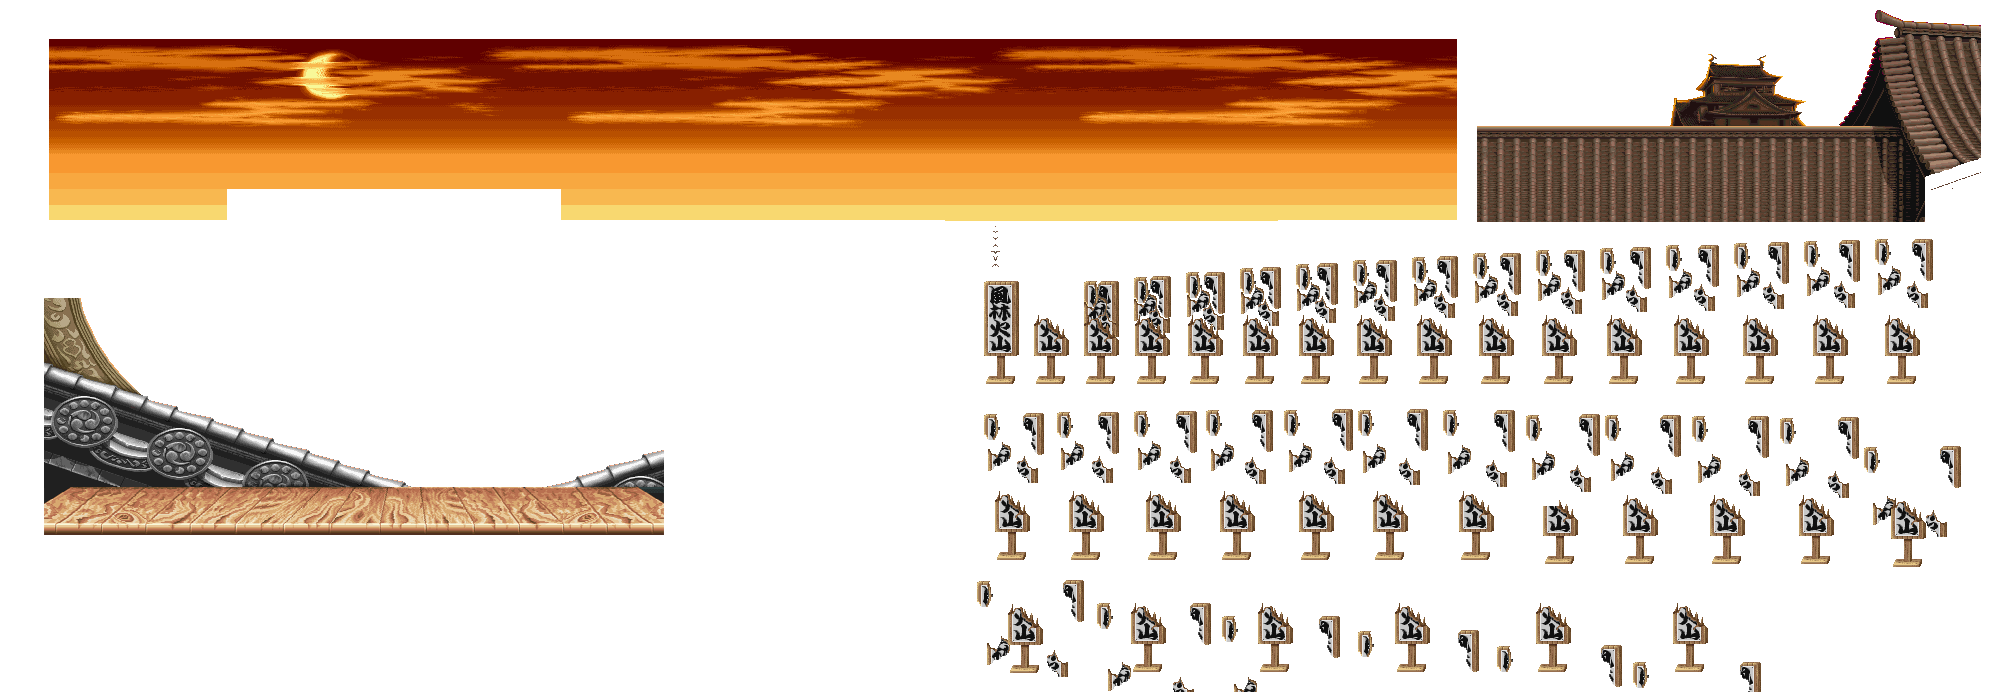
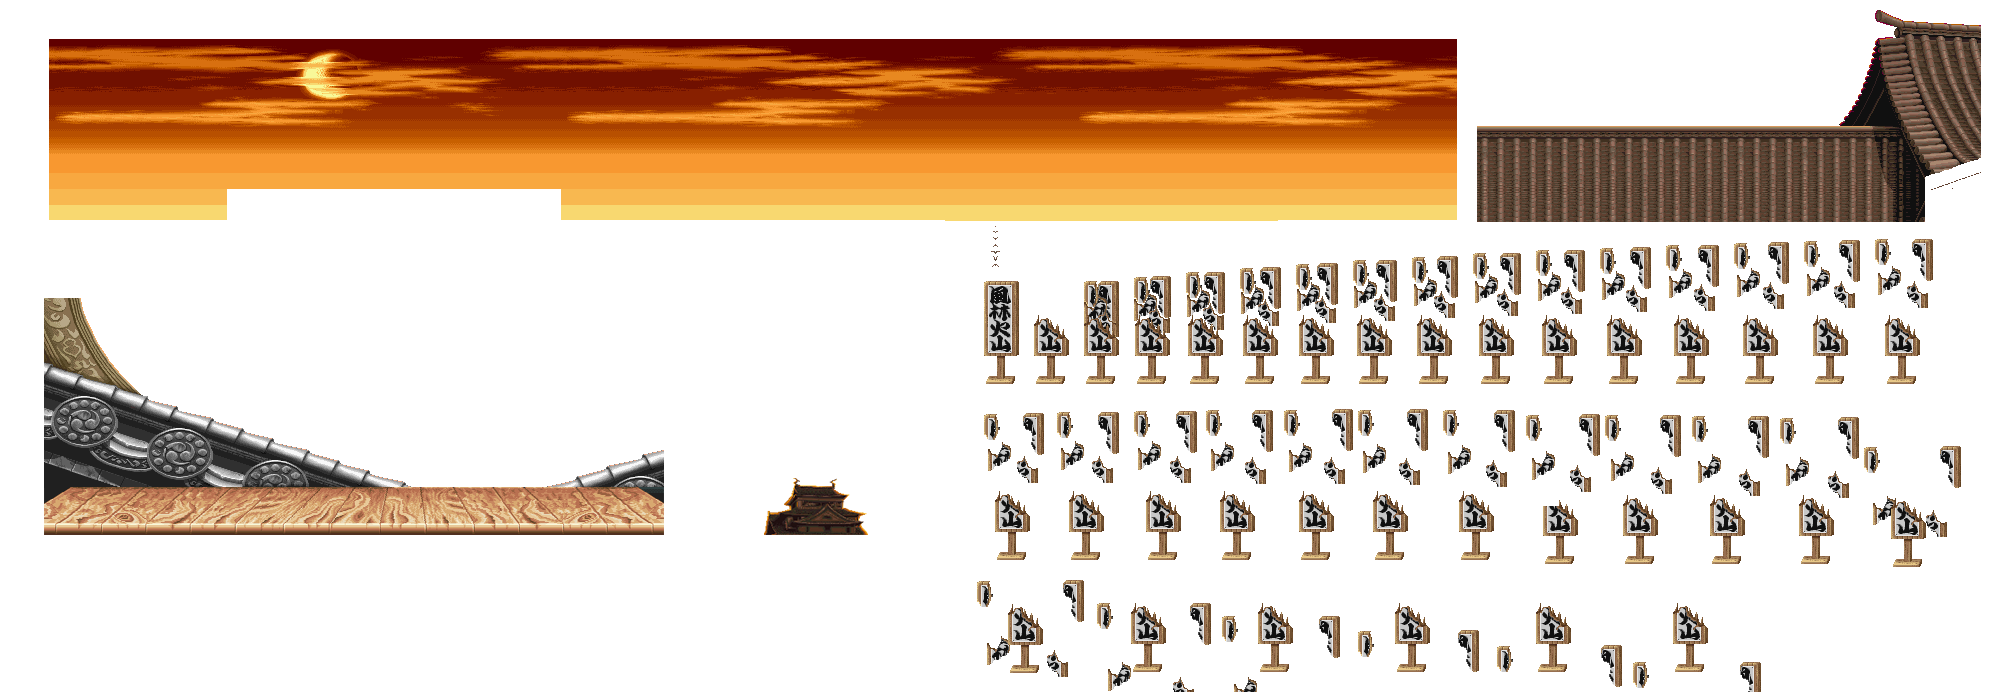
Background
background of the ryu scene updated, still in progress

Changed region(s): [[0.837, 0.09, 0.899, 0.18], [0.372, 0.69, 0.434, 0.78]]

diff --git a/Street Fighter II/Street-Fighter-II/ModuleRyuStage.cpp b/Street Fighter II/Street-Fighter-II/ModuleRyuStage.cpp
@@ -23,7 +23,7 @@ bool ModuleRyuStage::Start()
 {
 	LOG("Loading Ryu Stage");
 
-	background_texture = App->textures->Load("Assets/Images/Stages/Stages.png");
+	background_texture = App->textures->Load("Assets/Images/Stages/RyuStage.png");
 	hud = App->textures->Load("Assets/Images/Ui/uiSprites-0.png");
 
 	//lifebar1_rect2 = {0,164,331,39}
@@ -31,10 +31,9 @@ bool ModuleRyuStage::Start()
 	//lifebar1_rect1={948,125,331,39}
 	//lifebar2_rect2={948,125,331,39}
 
-	background_rect = { 856,650,384,108 };
-	roof_brown = { 475,599,378,159 };
-	roof_grey = { 6,614,466,144 };
-	floor = { 1357,569,671,27 };
+	background_rect = { 44,29,1405,192 };
+	roof_brown = { 1477,10,504,212 };
+	floor = { 42,298,622,237 };
 
 	App->player->Enable();
 	App->collision->Enable();
@@ -63,9 +62,8 @@ bool ModuleRyuStage::CleanUp()
 update_status ModuleRyuStage::Update()
 {
 	App->render->Blit(background_texture, 0, 0, &background_rect, NULL);
-	App->render->Blit(background_texture, 10, 0, &roof_brown, NULL);
-	App->render->Blit(background_texture, 0, 20, &roof_grey, NULL);
-	App->render->Blit(background_texture, 0, roof_grey.h+10, &floor, NULL);
+	App->render->Blit(background_texture, 0, 0, &roof_brown, NULL);
+	App->render->Blit(background_texture, 0, 0, &floor, NULL);
 
 
 	if (App->input->keyboard[SDL_SCANCODE_F4] == KEY_DOWN)

diff --git a/Street Fighter II/Street-Fighter-II/ModuleRyuStage.h b/Street Fighter II/Street-Fighter-II/ModuleRyuStage.h
@@ -27,7 +27,6 @@ public:
 
 	SDL_Rect background_rect;
 	SDL_Rect temple_mini;
-	SDL_Rect roof_grey;
 	SDL_Rect roof_brown;
 	SDL_Rect sign;
 	SDL_Rect floor;
